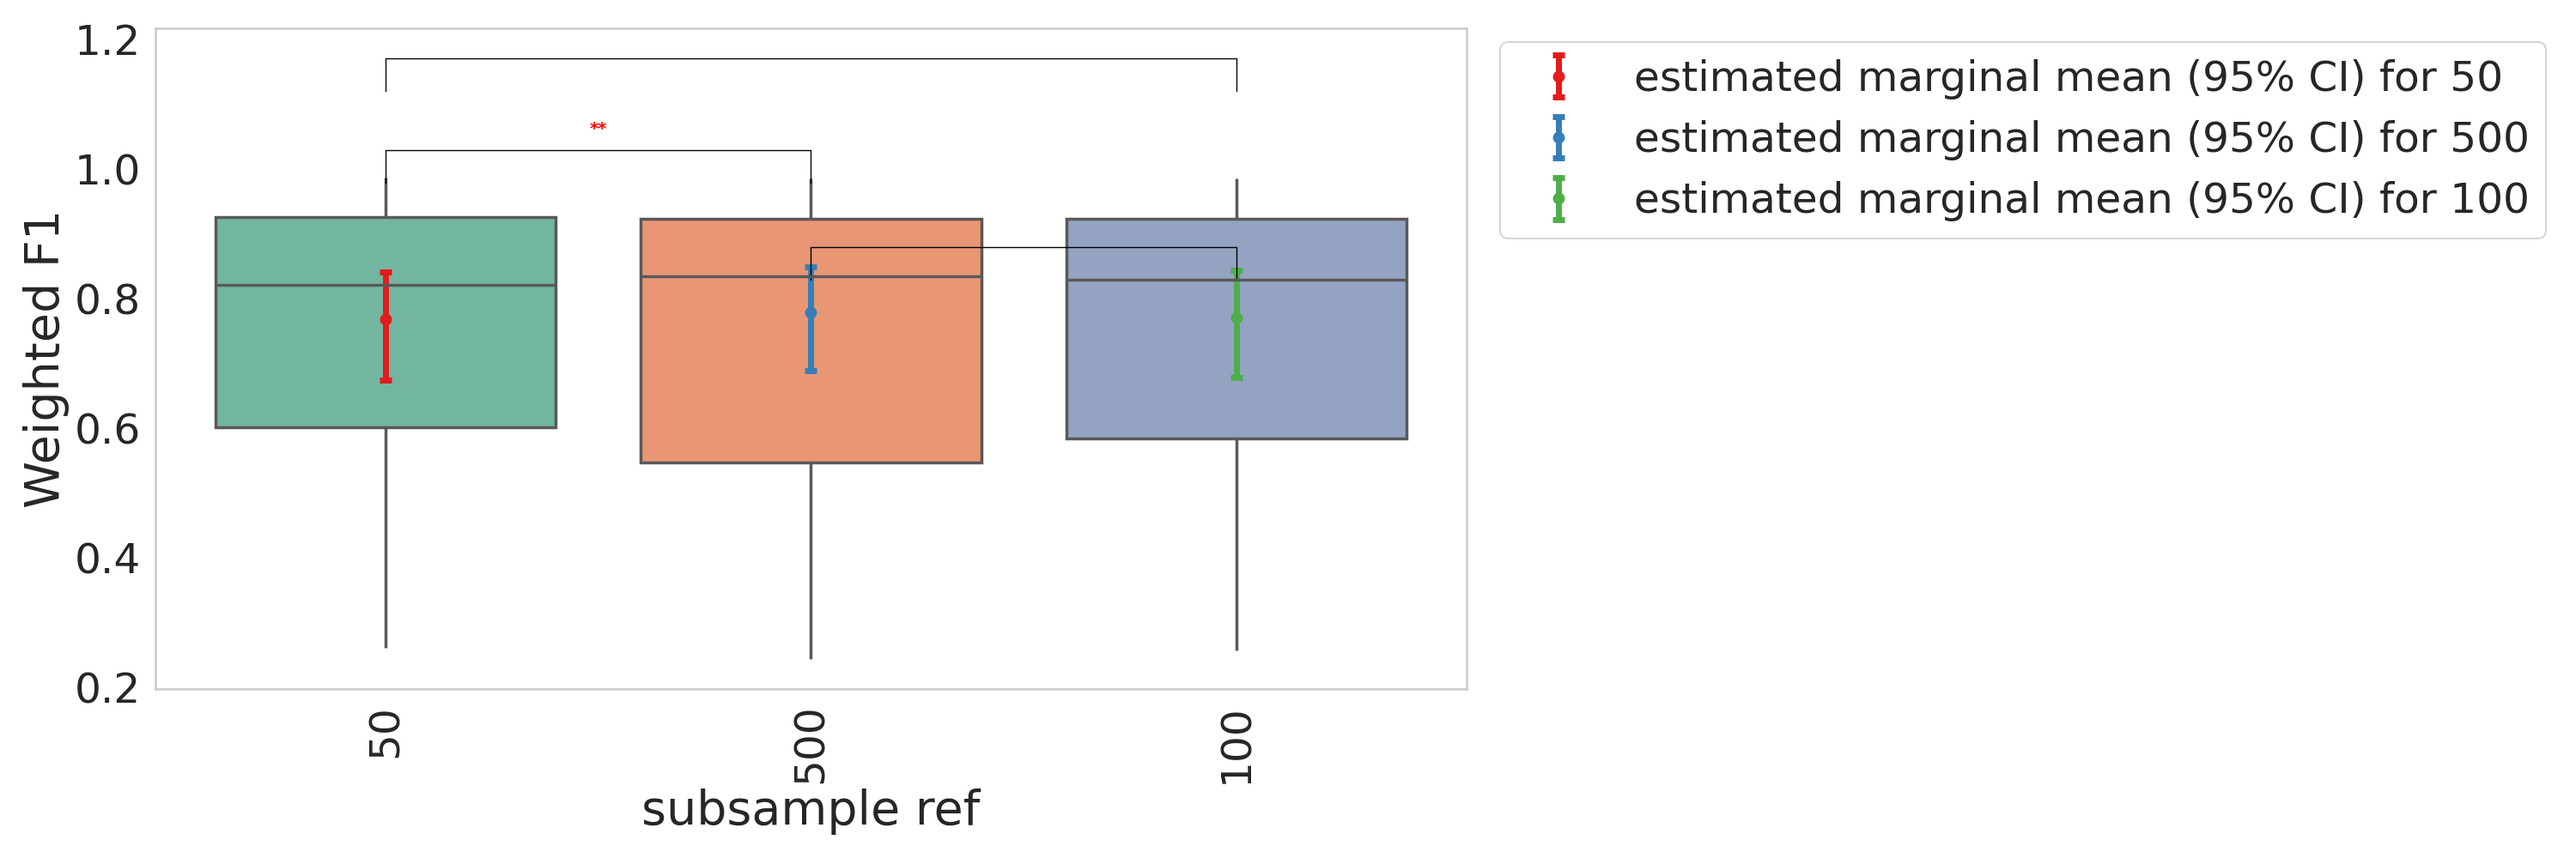
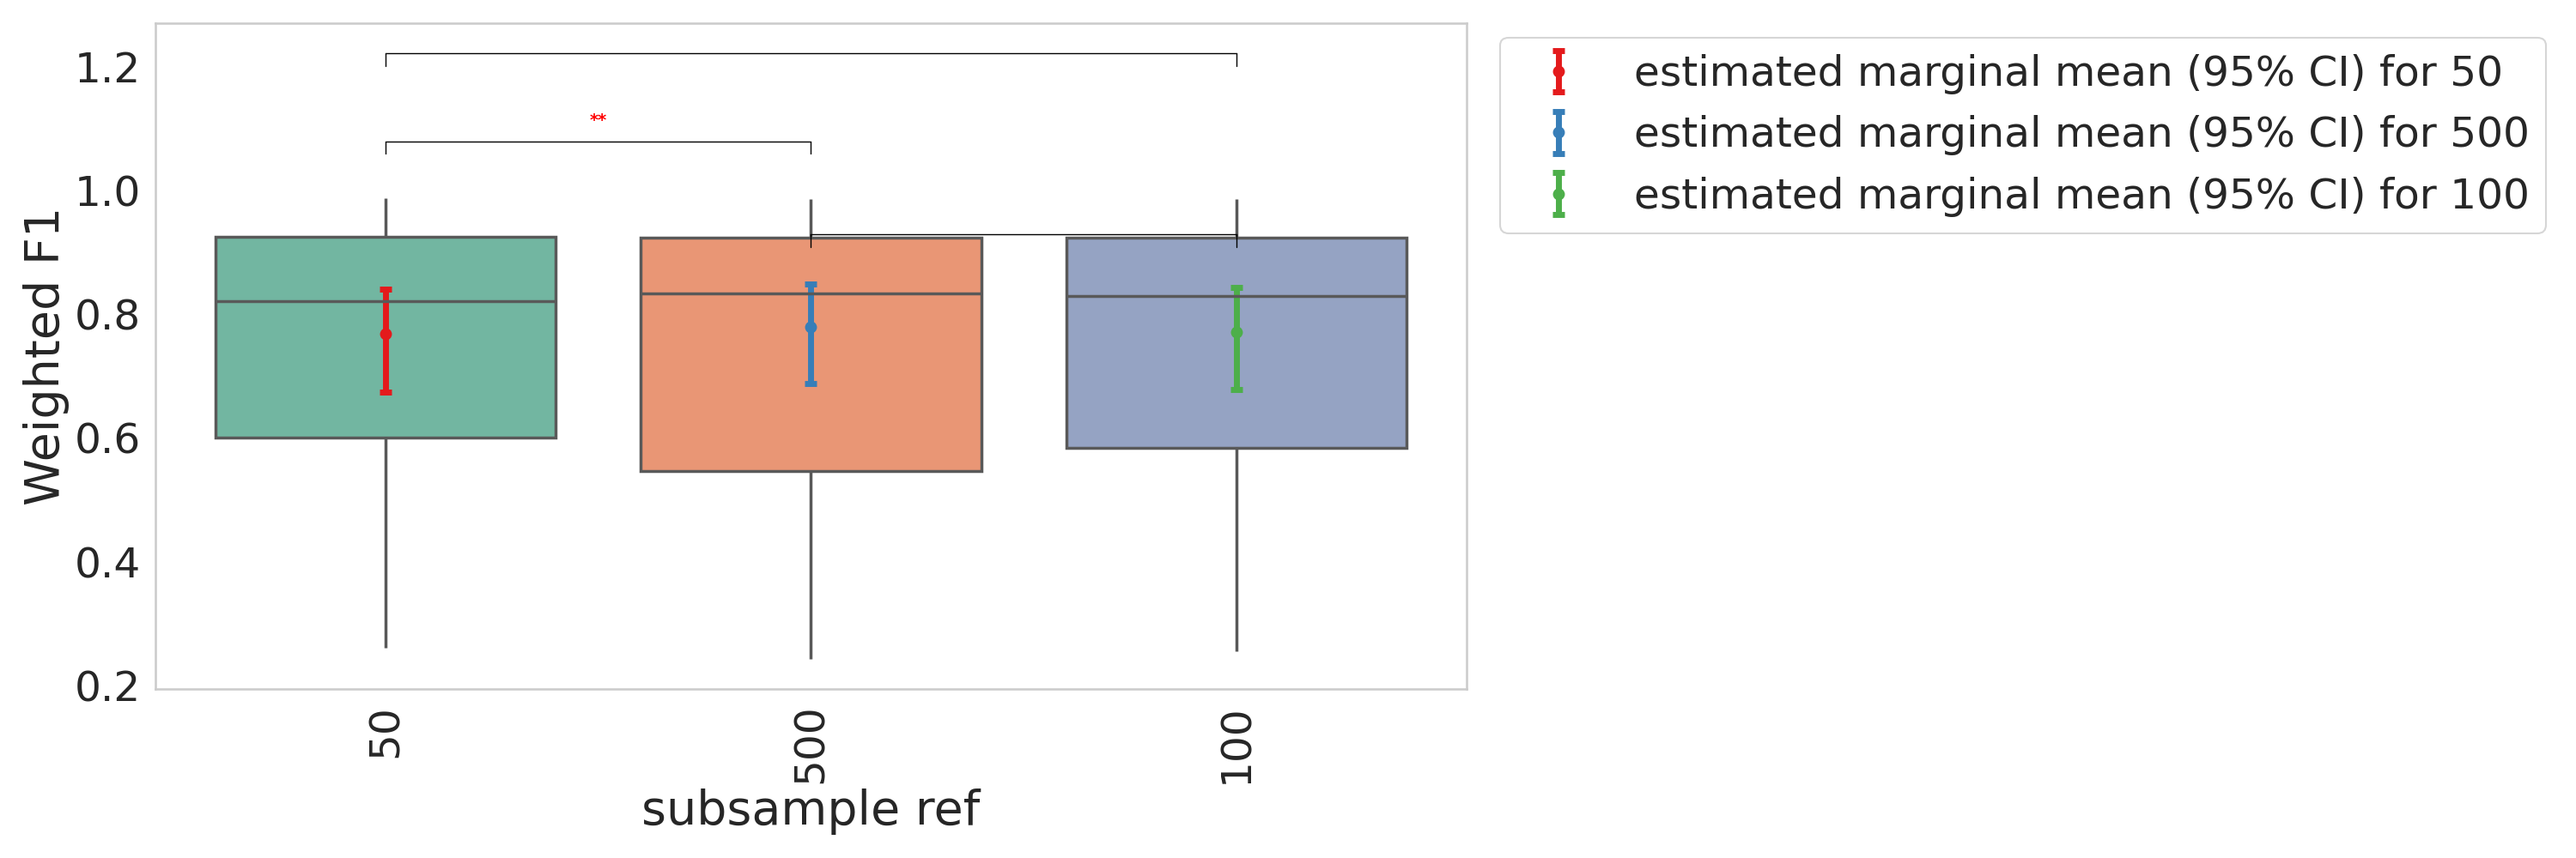
update weighted contrast figs

diff --git a/bin/plot_contrasts.py b/bin/plot_contrasts.py
@@ -138,9 +138,9 @@ def plot_contrast_twofactors(weighted_f1_results, factor1, factor2, outdir, cont
           y_low, y_high = sorted([y1, y2])
 
           # Bracket dimensions
-          x_base = max(x, subset['response'].values[0]) + 0.1
-          arm_length = 0.02  # horizontal length of the arms
-          arm_height = 0.05  # vertical height of the arms
+          x_base = max(x, subset['response'].values[0]) + 0.4
+          arm_length = 0.01  # horizontal length of the arms
+          arm_height = 0.05 # vertical height of the arms
 
           # Draw short horizontal arms
           plt.plot([x_base, x_base + arm_length], [y_low, y_low], color='black')   # bottom
@@ -254,10 +254,10 @@ def plot_contrast_onefactor(weighted_f1_results, factor1, outdir, key, contrast_
         y2 = weighted_f1_results[weighted_f1_results[factor1] == f2b]['response'].values[0]
         
         # Set top y position for the bracket
-        y_top = max(y1, y2) + 0.1 + (idx * 0.15)
+        y_top = max(y1, y2) + 0.15 + (idx * 0.15)
 
         # Height of the short vertical arms
-        arm_height = 0.05
+        arm_height = 0.02
 
         # Draw short vertical arms
         ax.plot([x1, x1], [y_top - arm_height, y_top], color='black', linewidth=1)
